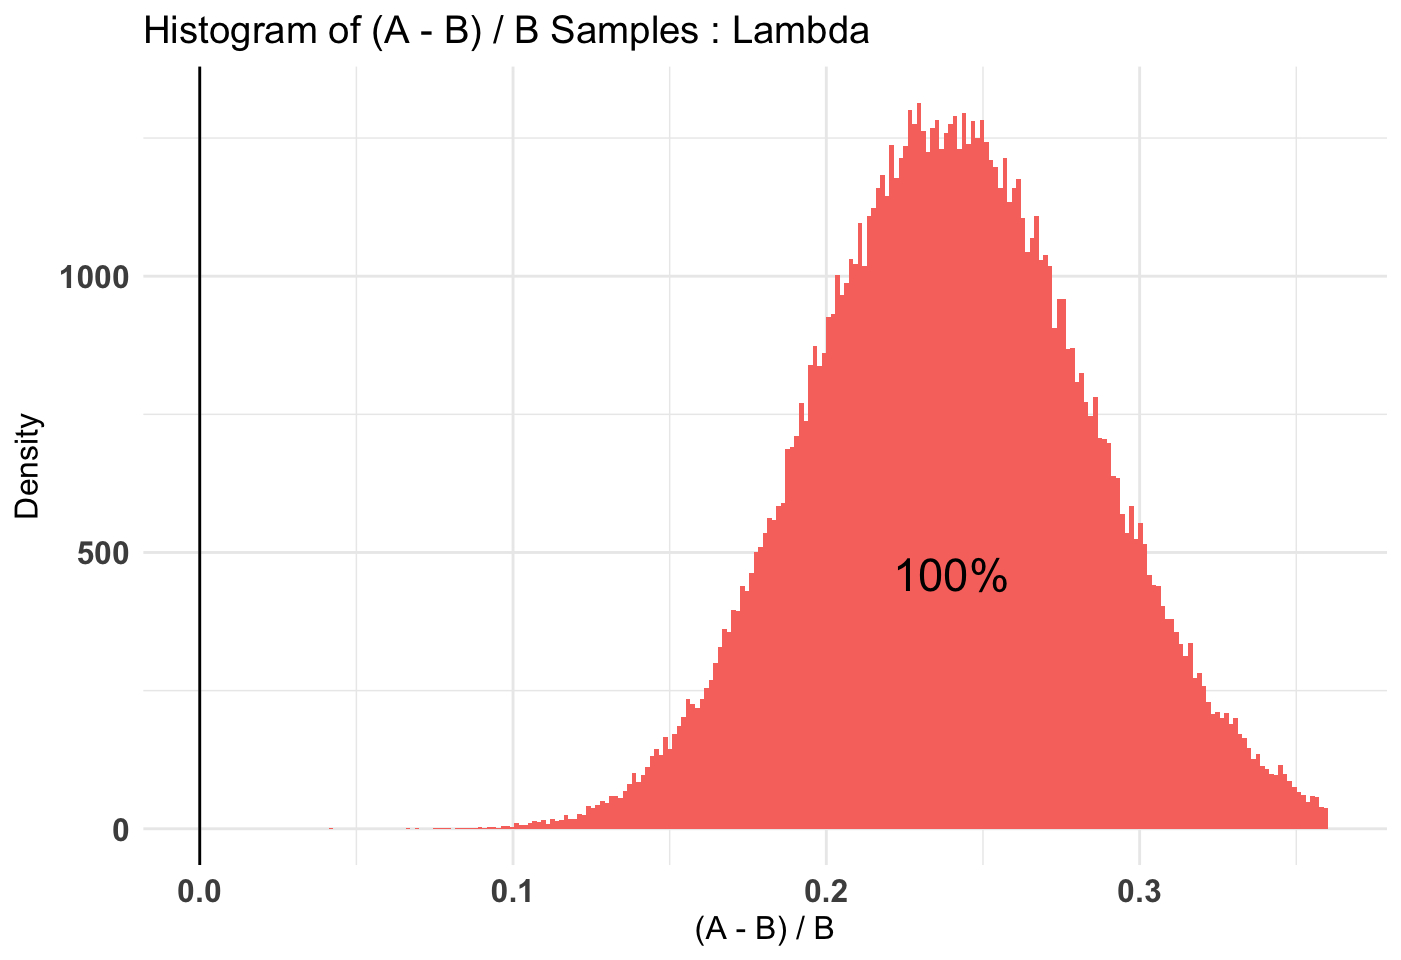
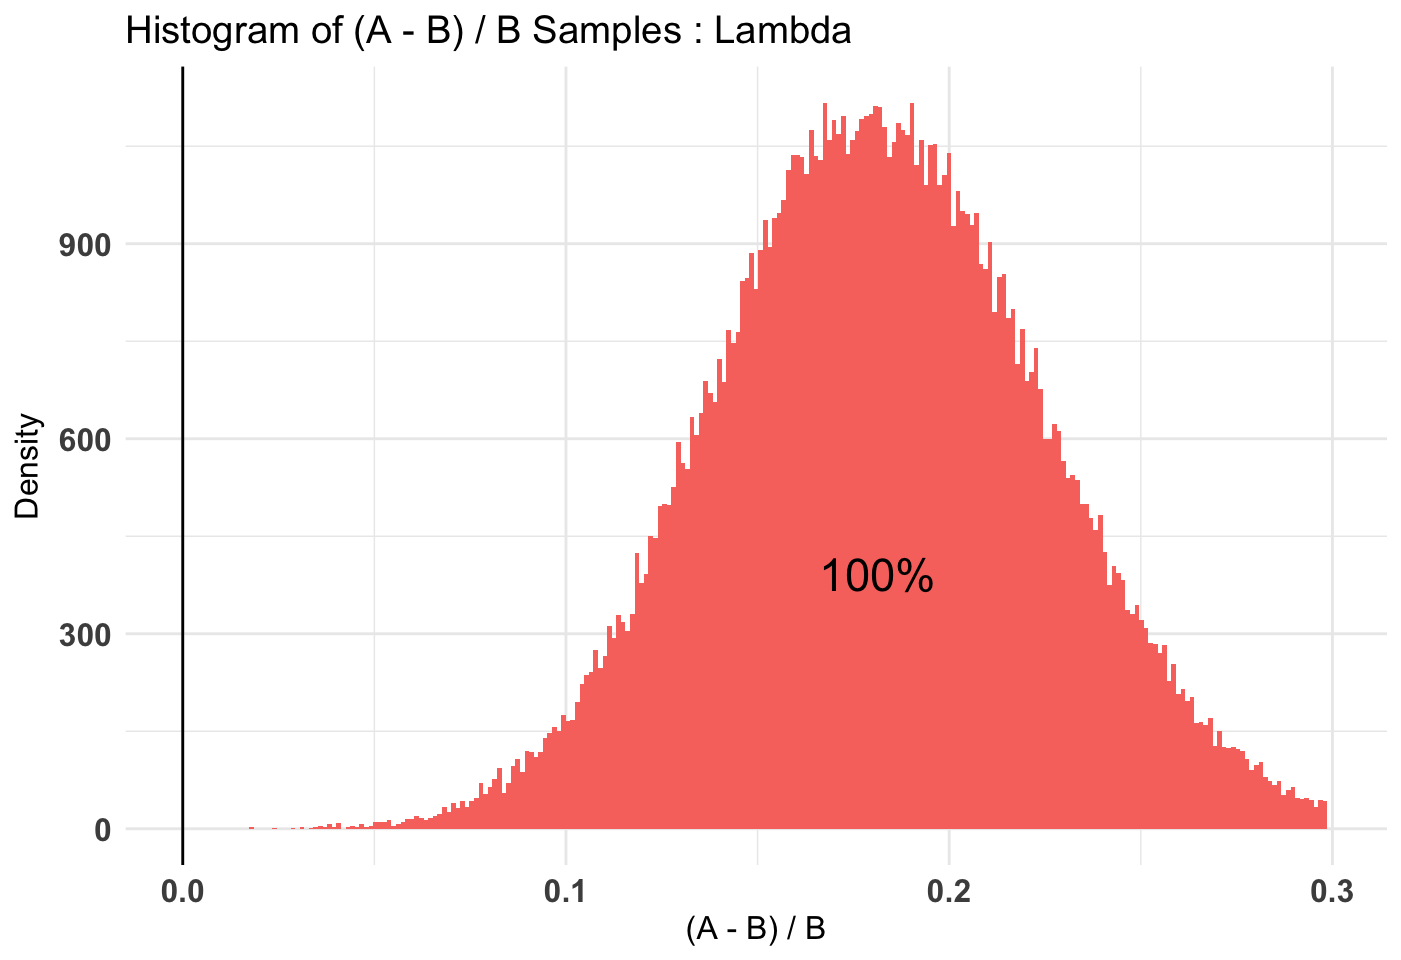
New site

diff --git a/docs/articles/introduction.html b/docs/articles/introduction.html
@@ -127,8 +127,8 @@ B_binom &lt;-<span class="st"> </span><span class="kw">rbinom</span>(<span class
 ## Min.    0.000 0.000
 ## 1st Qu. 0.000 0.000
 ## Median  0.000 0.000
-## Mean    0.292 0.184
-## 3rd Qu. 1.000 0.000
+## Mean    0.248 0.172
+## 3rd Qu. 0.000 0.000
 ## Max.    1.000 1.000
 ## --------------------------------------------
 ## Conjugate Prior Distribution: Beta 
@@ -151,11 +151,11 @@ B_binom &lt;-<span class="st"> </span><span class="kw">rbinom</span>(<span class
 ## $Probability
 ## $Probability$A
 ##        0%       25%       50%       75%      100% 
-## 0.1881961 0.2545502 0.2675466 0.2808563 0.3564060 
+## 0.1602854 0.2336695 0.2462963 0.2591364 0.3311030 
 ## 
 ## $Probability$B
 ##        0%       25%       50%       75%      100% 
-## 0.1423670 0.2031949 0.2151722 0.2274901 0.3020077 
+## 0.1389548 0.1973542 0.2092080 0.2215236 0.2945749 
 ## 
 ## 
 ## --------------------------------------------
@@ -163,22 +163,22 @@ B_binom &lt;-<span class="st"> </span><span class="kw">rbinom</span>(<span class
 ## P(A &gt; B) by (0)%: 
 ## 
 ## $Probability
-## [1] 0.97558
+## [1] 0.92203
 ## 
 ## --------------------------------------------
 ## 
 ## Credible Interval on (A - B) / B for interval length(s) (0.9) : 
 ## 
 ## $Probability
-##         5%        95% 
-## 0.03573459 0.49488635 
+##          5%         95% 
+## -0.02493976  0.42466850 
 ## 
 ## --------------------------------------------
 ## 
 ## Posterior Expected Loss for choosing B over A:
 ## 
 ## $Probability
-## [1] 0.001066769</code></pre>
+## [1] 0.004249824</code></pre>
 <div class="sourceCode"><pre class="sourceCode r"><code class="sourceCode r"><span class="kw">plot</span>(AB1)</code></pre></div>
 <p><img src="introduction_files/figure-html/unnamed-chunk-4-1.png" width="700.8"><img src="introduction_files/figure-html/unnamed-chunk-4-2.png" width="700.8"><img src="introduction_files/figure-html/unnamed-chunk-4-3.png" width="700.8"></p>
 <p><code>print</code> talks about the inputs to the test, <code>summary</code> will do a P((A - B) / B &gt; percentLift) and credible interval on (A - B) / B calculation, and <code>plot</code> will plot the priors, posteriors, and the Monte Carlo ‘integrated’ samples.</p>
@@ -200,13 +200,13 @@ B_pois &lt;-<span class="st"> </span><span class="kw">rpois</span>(<span class="
 ## Distribution used: poisson 
 ## --------------------------------------------
 ## Using data with the following properties: 
-##              A     B
-## Min.     1.000  0.00
-## 1st Qu.  5.000  4.00
-## Median   7.000  5.00
-## Mean     6.772  5.44
-## 3rd Qu.  8.000  7.00
-## Max.    15.000 14.00
+##             A      B
+## Min.     1.00  1.000
+## 1st Qu.  5.00  4.000
+## Median   6.00  5.000
+## Mean     6.42  5.416
+## 3rd Qu.  8.00  7.000
+## Max.    14.00 13.000
 ## --------------------------------------------
 ## Conjugate Prior Distribution: Gamma 
 ## Conjugate Prior Parameters: 
@@ -228,11 +228,11 @@ B_pois &lt;-<span class="st"> </span><span class="kw">rpois</span>(<span class="
 ## $Lambda
 ## $Lambda$A
 ##       0%      25%      50%      75%     100% 
-## 6.044739 6.646889 6.756393 6.866301 7.419686 
+## 5.744445 6.303583 6.409875 6.517426 7.089945 
 ## 
 ## $Lambda$B
 ##       0%      25%      50%      75%     100% 
-## 4.826260 5.351709 5.450162 5.548613 6.137701 
+## 4.766755 5.328039 5.426263 5.526119 6.155046 
 ## 
 ## 
 ## --------------------------------------------
@@ -248,7 +248,7 @@ B_pois &lt;-<span class="st"> </span><span class="kw">rpois</span>(<span class="
 ## 
 ## $Lambda
 ##        5%       95% 
-## 0.1684572 0.3155940 
+## 0.1123637 0.2548193 
 ## 
 ## --------------------------------------------
 ## 
@@ -277,13 +277,13 @@ AB3 &lt;-<span class="st"> </span>AB1 <span class="op">%&gt;%</span>
 ## Distribution used: combined 
 ## --------------------------------------------
 ## Using data with the following properties: 
-##             A      A     B     B
-## Min.    0.000  1.000 0.000  0.00
-## 1st Qu. 0.000  5.000 0.000  4.00
-## Median  0.000  7.000 0.000  5.00
-## Mean    0.292  6.772 0.184  5.44
-## 3rd Qu. 1.000  8.000 0.000  7.00
-## Max.    1.000 15.000 1.000 14.00
+##             A     A     B      B
+## Min.    0.000  1.00 0.000  1.000
+## 1st Qu. 0.000  5.00 0.000  4.000
+## Median  0.000  6.00 0.000  5.000
+## Mean    0.248  6.42 0.172  5.416
+## 3rd Qu. 0.000  8.00 0.000  7.000
+## Max.    1.000 14.00 1.000 13.000
 ## --------------------------------------------
 ## Conjugate Prior Distribution:  
 ## Conjugate Prior Parameters: 
@@ -300,11 +300,11 @@ AB3 &lt;-<span class="st"> </span>AB1 <span class="op">%&gt;%</span>
 ## $Expectation
 ## $Expectation$A
 ##       0%      25%      50%      75%     100% 
-## 1.264795 1.715578 1.806660 1.902125 2.469089 
+## 1.050199 1.493232 1.578029 1.665053 2.238176 
 ## 
 ## $Expectation$B
 ##        0%       25%       50%       75%      100% 
-## 0.7907784 1.1041781 1.1726574 1.2435616 1.7073896 
+## 0.7364866 1.0674733 1.1347617 1.2049303 1.6500061 
 ## 
 ## 
 ## --------------------------------------------
@@ -312,7 +312,7 @@ AB3 &lt;-<span class="st"> </span>AB1 <span class="op">%&gt;%</span>
 ## P(A &gt; B) by (0)%: 
 ## 
 ## $Expectation
-## [1] 0.99995
+## [1] 0.99677
 ## 
 ## --------------------------------------------
 ## 
@@ -320,14 +320,14 @@ AB3 &lt;-<span class="st"> </span>AB1 <span class="op">%&gt;%</span>
 ## 
 ## $Expectation
 ##        5%       95% 
-## 0.2727461 0.8709381 
+## 0.1412051 0.6982818 
 ## 
 ## --------------------------------------------
 ## 
 ## Posterior Expected Loss for choosing B over A:
 ## 
 ## $Expectation
-## [1] 9.767476e-07</code></pre>
+## [1] 0.0001283356</code></pre>
 <div class="sourceCode"><pre class="sourceCode r"><code class="sourceCode r"><span class="kw">plot</span>(AB3)</code></pre></div>
 <p><img src="introduction_files/figure-html/unnamed-chunk-8-1.png" width="700.8"><img src="introduction_files/figure-html/unnamed-chunk-8-2.png" width="700.8"></p>
 </div>

diff --git a/docs/articles/extra/priors.html b/docs/articles/extra/priors.html
@@ -143,11 +143,11 @@ out_stronger_priors &lt;-<span class="st"> </span><span class="kw">ifelse</span>
 out_diffuse &lt;-<span class="st"> </span><span class="kw">ifelse</span>(out_diffuse <span class="op">&lt;=</span><span class="st"> </span><span class="fl">0.05</span> <span class="op">|</span><span class="st"> </span>out_diffuse <span class="op">&gt;=</span><span class="st"> </span>.<span class="dv">95</span>, <span class="dv">1</span>, <span class="dv">0</span>)</code></pre></div>
 <p>Now, A and B shouldn’t have any difference between the two but occasionally we will see a Type 1 error. That’s what the bottom 3 lines are doing. If P(A &gt; B) is &lt;=0.05 or &gt;= .95 we call one of the recipes “significantly” better. Observe what happens with each case of prior.</p>
 <div class="sourceCode"><pre class="sourceCode r"><code class="sourceCode r"><span class="kw">mean</span>(out_weaker_priors)</code></pre></div>
-<pre><code>## [1] 0.092</code></pre>
+<pre><code>## [1] 0.075</code></pre>
 <div class="sourceCode"><pre class="sourceCode r"><code class="sourceCode r"><span class="kw">mean</span>(out_stronger_priors)</code></pre></div>
-<pre><code>## [1] 0.024</code></pre>
+<pre><code>## [1] 0.018</code></pre>
 <div class="sourceCode"><pre class="sourceCode r"><code class="sourceCode r"><span class="kw">mean</span>(out_diffuse)</code></pre></div>
-<pre><code>## [1] 0.111</code></pre>
+<pre><code>## [1] 0.094</code></pre>
 <p>The diffuse priors have the most Type 1 errors, followed by the weak priors, followed by the strong priors; to be expected.</p>
 <p>Finally, we can fit another bayesTest (:D) to determine whether the differences between Type 1 error percents across priors are different from one another.</p>
 <div class="sourceCode"><pre class="sourceCode r"><code class="sourceCode r">t1 &lt;-<span class="st"> </span><span class="kw"><a href="../../reference/bayesTest.html">bayesTest</a></span>(out_diffuse, out_weaker_priors, <span class="dt">priors =</span> <span class="kw">c</span>(<span class="st">'alpha'</span> =<span class="st"> </span><span class="dv">1</span>, <span class="st">'beta'</span> =<span class="st"> </span><span class="dv">1</span>), <span class="dt">distribution =</span> <span class="st">'bernoulli'</span>)
@@ -165,11 +165,11 @@ t2 &lt;-<span class="st"> </span><span class="kw"><a href="../../reference/bayes
 ## $Probability
 ## $Probability$A
 ##         0%        25%        50%        75%       100% 
-## 0.07239762 0.10487009 0.11148204 0.11831392 0.16287681 
+## 0.05888193 0.08850332 0.09456012 0.10089475 0.13695475 
 ## 
 ## $Probability$B
 ##         0%        25%        50%        75%       100% 
-## 0.05822264 0.08652677 0.09255503 0.09885870 0.13767744 
+## 0.04318033 0.07004783 0.07554035 0.08133655 0.11804567 
 ## 
 ## 
 ## --------------------------------------------
@@ -177,7 +177,7 @@ t2 &lt;-<span class="st"> </span><span class="kw"><a href="../../reference/bayes
 ## P(A &gt; B) by (0)%: 
 ## 
 ## $Probability
-## [1] 0.91921
+## [1] 0.93581
 ## 
 ## --------------------------------------------
 ## 
@@ -185,25 +185,25 @@ t2 &lt;-<span class="st"> </span><span class="kw"><a href="../../reference/bayes
 ## 
 ## $Probability
 ##          5%         95% 
-## -0.03269391  0.50204276 
+## -0.01776859  0.59660642 
 ## 
 ## --------------------------------------------
 ## 
 ## Posterior Expected Loss for choosing B over A:
 ## 
 ## $Probability
-## [1] 0.005080276</code></pre>
+## [1] 0.004310741</code></pre>
 <div class="sourceCode"><pre class="sourceCode r"><code class="sourceCode r"><span class="kw">summary</span>(t2)</code></pre></div>
 <pre><code>## Quantiles of posteriors for A and B:
 ## 
 ## $Probability
 ## $Probability$A
 ##         0%        25%        50%        75%       100% 
-## 0.07493909 0.10496541 0.11148721 0.11834738 0.15902627 
+## 0.05995514 0.08848801 0.09455660 0.10091781 0.13928839 
 ## 
 ## $Probability$B
 ##          0%         25%         50%         75%        100% 
-## 0.008965488 0.021504536 0.024647075 0.028082554 0.052926814 
+## 0.005827711 0.015908170 0.018630119 0.021669234 0.042970433 
 ## 
 ## 
 ## --------------------------------------------
@@ -219,7 +219,7 @@ t2 &lt;-<span class="st"> </span><span class="kw"><a href="../../reference/bayes
 ## 
 ## $Probability
 ##       5%      95% 
-## 2.205452 5.576050 
+## 2.434417 6.808360 
 ## 
 ## --------------------------------------------
 ## 

diff --git a/docs/news/index.html b/docs/news/index.html
@@ -103,6 +103,36 @@
     </div>
 
     <div class="contents">
+    <div id="bayesab-1-1-0" class="section level1">
+<h1 class="hasAnchor">
+<a href="#bayesab-1-1-0" class="anchor"></a>bayesAB 1.1.0</h1>
+<div id="breaking" class="section level2">
+<h2 class="hasAnchor">
+<a href="#breaking" class="anchor"></a>Breaking</h2>
+<ul>
+<li><p>Changed conjugate prior of Normal/LogNormal distributions to be the <code>NormalInverseGamma</code> distribution from a combination of the <code>Normal</code> and <code>Inverse Gamma</code> distributions. This distribution is bivariate and gives us a 2d estimate for both <code>x</code> and <code>sig_sq</code>. The params for this distribution are <code>mu</code>, <code>lambda</code>, <code>alpha</code>, <code>beta</code> and are different from the old priors that Normal/LogNormal were expecting.</p></li>
+<li><p>Various doc changes to illustrate these changes and new expectations</p></li>
+</ul>
+</div>
+<div id="major-changes" class="section level2">
+<h2 class="hasAnchor">
+<a href="#major-changes" class="anchor"></a>Major Changes</h2>
+<ul>
+<li>Fix closed form distributions and added tests</li>
+<li>Calculation Posterior Expected Loss is now correct and represents a true loss function</li>
+<li>Added <code>plotNormalInvGamma</code>
+</li>
+</ul>
+</div>
+<div id="minor-changes" class="section level2">
+<h2 class="hasAnchor">
+<a href="#minor-changes" class="anchor"></a>Minor Changes</h2>
+<ul>
+<li>Colors for sample plots are now hardcoded (red for &gt; 0 and blue for &lt; 0)</li>
+<li>Plots are truncated at the extremes to avoid very long tails</li>
+</ul>
+</div>
+</div>
     <div id="bayesab-1-0-0" class="section level1">
 <h1 class="hasAnchor">
 <a href="#bayesab-1-0-0" class="anchor"></a>bayesAB 1.0.0</h1>
@@ -192,6 +222,7 @@
     <div id="tocnav">
       <h2>Contents</h2>
       <ul class="nav nav-pills nav-stacked">
+        <li><a href="#bayesab-1-1-0">1.1.0</a></li>
         <li><a href="#bayesab-1-0-0">1.0.0</a></li>
         <li><a href="#bayesab-0-7-0">0.7.0</a></li>
         <li><a href="#bayesab-0-6-0">0.6.0</a></li>

diff --git a/docs/articles/index.html b/docs/articles/index.html
@@ -96,7 +96,7 @@
       </header>
 
       <div class="page-header">
-  <h1>Articles <small>version&nbsp;1.0.0</small></h1>
+  <h1>Articles <small>version&nbsp;1.1.0</small></h1>
 </div>
 
 <div class="row">

diff --git a/docs/reference/index.html b/docs/reference/index.html
@@ -100,7 +100,7 @@
     <div class="page-header">
       <h1>
         Reference
-        <small>version&nbsp;1.0.0</small>
+        <small>version&nbsp;1.1.0</small>
       </h1>
     </div>
 
